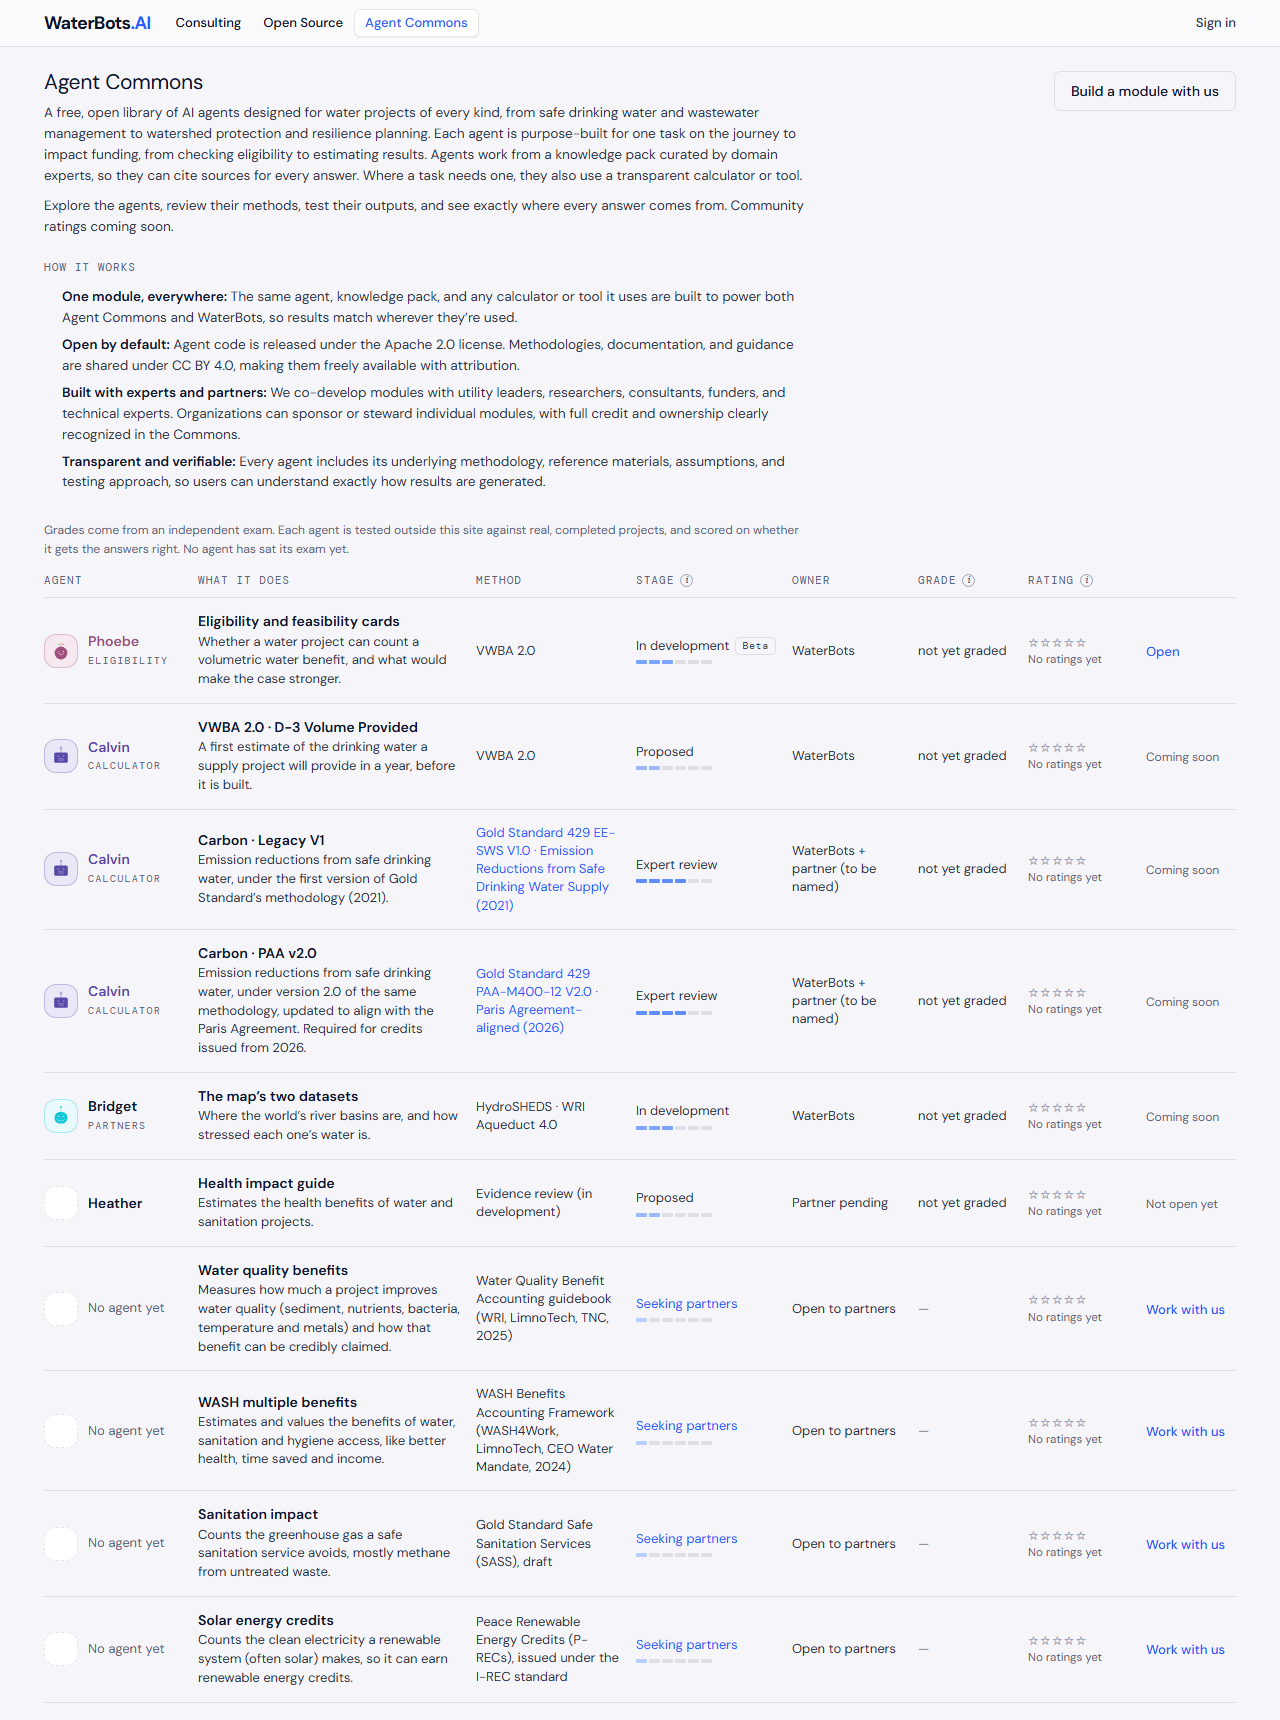
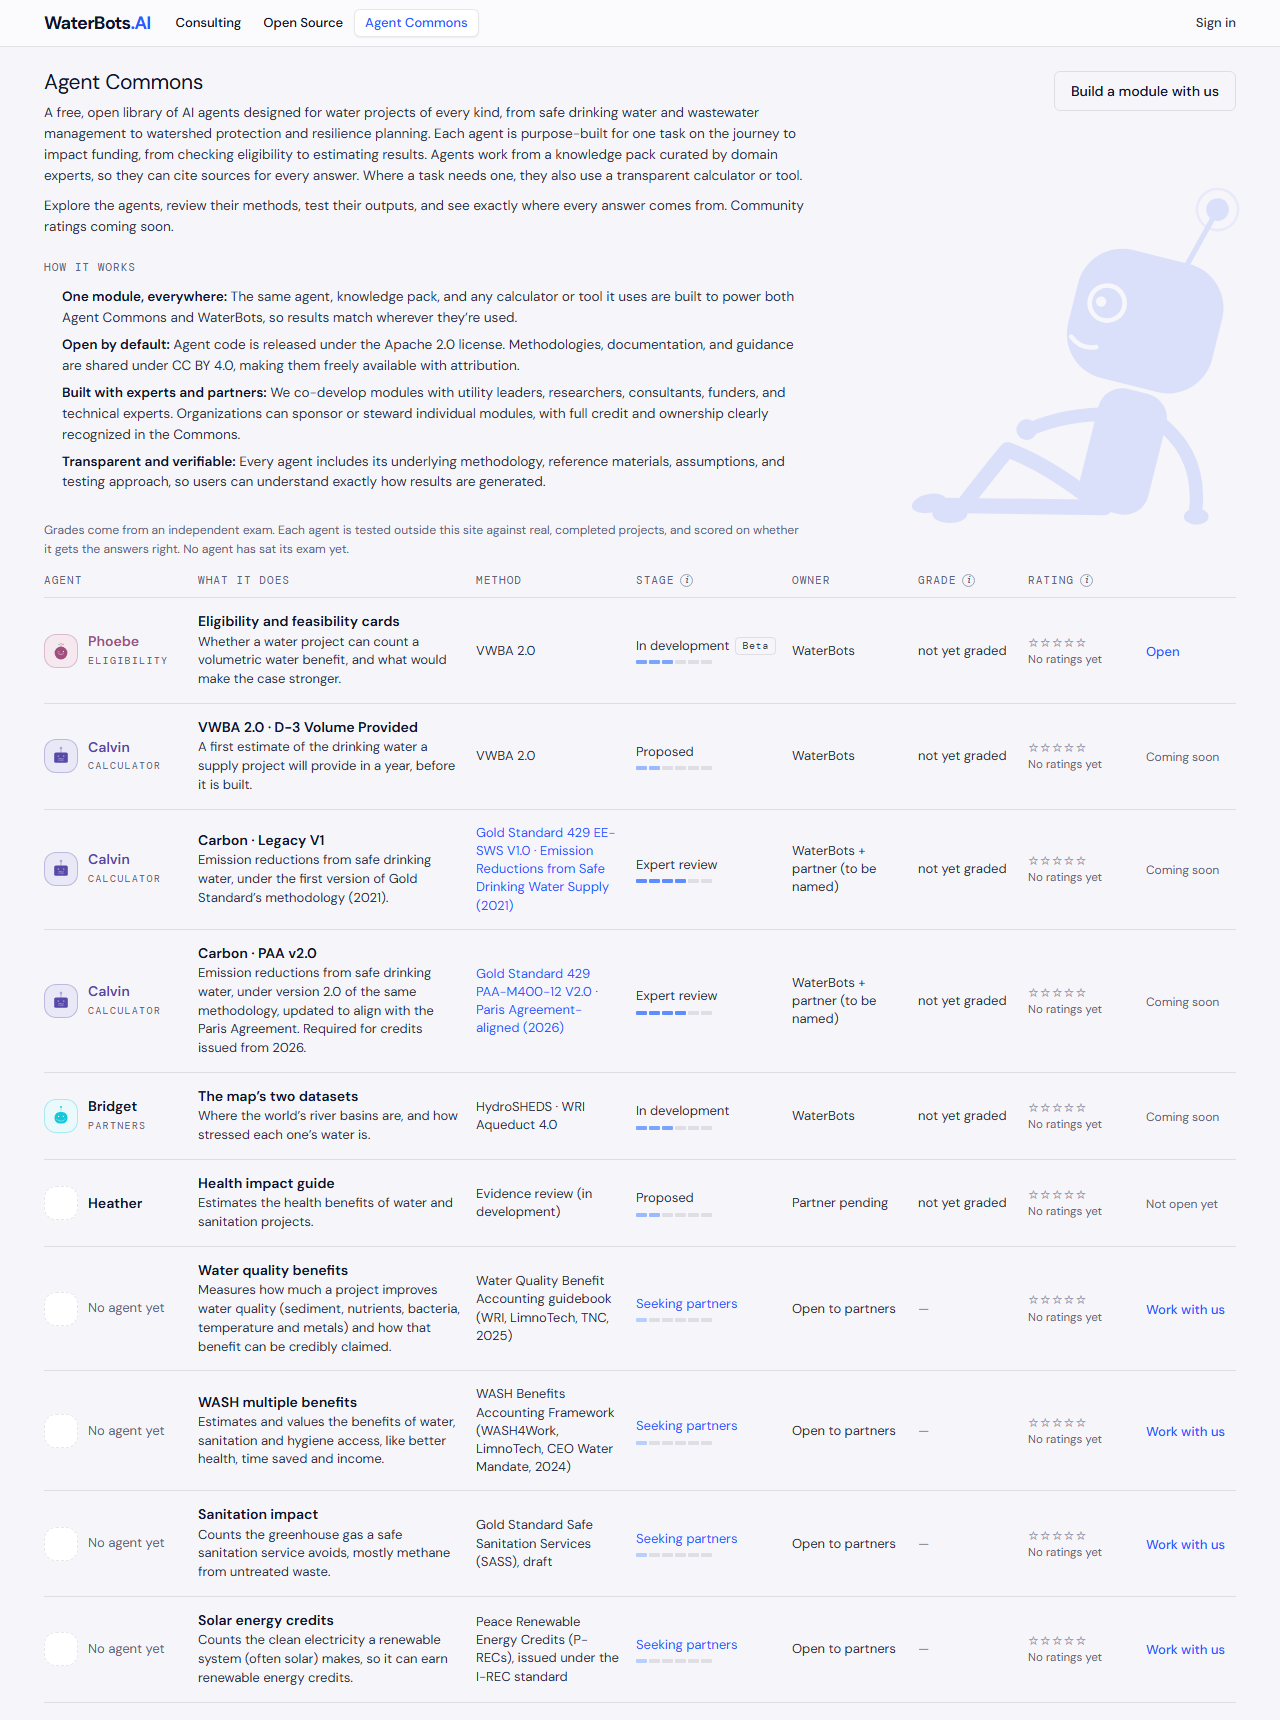
Built: the leaning Wellington beside the Commons opening
Amy's figure from the concept note, drawn as she sent it with its colours on
tokens (Tide through currentColor, the face's white through --card), at 0.13
opacity in the blank space right of the opening, under the button. It is
decoration only, and it hides below 1240px, where the space closes and it
would come within reach of the words, phones included.

Changed region(s): [[0.7188, 0.0924, 0.9688, 0.3081]]

diff --git a/src/components/WellingtonLeaning.tsx b/src/components/WellingtonLeaning.tsx
@@ -1,0 +1,55 @@
+/**
+ * Wellington, leaning — the figure from the maintainer's concept note, carried
+ * in by her hand on 28 Oct 2026 and drawn here as she sent it: his house form
+ * (rounded-square head, ringed eye and dot eye, gentle wave mouth, straight
+ * antenna with a haloed dot) leaning back at ease. Only the colours move to
+ * tokens: Tide through currentColor, and the face's white through --card.
+ *
+ * Decoration only: hidden from screen readers, never clickable, and faded, so
+ * it stays in the background.
+ */
+
+import type { CSSProperties } from 'react';
+
+const FACE = { stroke: 'var(--card)' } as const;
+
+export default function WellingtonLeaning({ className, style }: { className?: string; style?: CSSProperties }) {
+  return (
+    <svg
+      xmlns="http://www.w3.org/2000/svg"
+      viewBox="0 0 320 360"
+      width={330}
+      height={371}
+      className={className}
+      aria-hidden
+      focusable="false"
+      style={{ color: 'var(--tide)', pointerEvents: 'none', overflow: 'visible', ...style }}
+    >
+      <path
+        d="M 196 336 Q 150 300 112 286 Q 92 310 66 344"
+        stroke="currentColor"
+        strokeWidth={15}
+        fill="none"
+        strokeLinecap="round"
+        strokeLinejoin="round"
+      />
+      <ellipse cx={56} cy={348} rx={17} ry={9} fill="currentColor" />
+      <path d="M 206 342 L 48 340" stroke="currentColor" strokeWidth={15} fill="none" strokeLinecap="round" />
+      <ellipse cx={36} cy={338} rx={17} ry={9} fill="currentColor" transform="rotate(-12 36 338)" />
+      <g transform="rotate(14 210 345)">
+        <rect x={176} y={226} width={68} height={120} rx={24} fill="currentColor" />
+        <path d="M 196 252 Q 150 262 118 286" stroke="currentColor" strokeWidth={13} fill="none" strokeLinecap="round" />
+        <circle cx={114} cy={288} r={10} fill="currentColor" />
+        <line x1={226} y1={96} x2={240} y2={44} stroke="currentColor" strokeWidth={5} strokeLinecap="round" />
+        <circle cx={242} cy={36} r={11} fill="currentColor" />
+        <circle cx={242} cy={36} r={20} fill="none" stroke="currentColor" strokeWidth={2.4} opacity={0.5} />
+        <path d="M 232 248 Q 284 268 292 324" stroke="currentColor" strokeWidth={13} fill="none" strokeLinecap="round" />
+        <ellipse cx={294} cy={330} rx={12} ry={8} fill="currentColor" transform="rotate(-14 294 330)" />
+        <rect x={128} y={94} width={144} height={128} rx={44} fill="currentColor" />
+        <circle cx={160} cy={150} r={17} fill="none" strokeWidth={4.5} style={FACE} />
+        <circle cx={154} cy={150} r={5} style={{ fill: 'var(--card)' }} />
+        <path d="M 134 190 Q 146 200 160 194" strokeWidth={4.5} fill="none" strokeLinecap="round" style={FACE} />
+      </g>
+    </svg>
+  );
+}

diff --git a/src/components/CommonsShelf.tsx b/src/components/CommonsShelf.tsx
@@ -46,6 +46,7 @@ import {
   type ShelfCard,
 } from '../lib/commonsShelf';
 import { CONSULTING_URL, partnerMailto } from '../lib/site';
+import WellingtonLeaning from './WellingtonLeaning';
 
 /**
  * How It Works — the maintainer's four points, her words exactly, 28 Oct 2026.
@@ -95,7 +96,15 @@ export default function CommonsShelf({ onOpen }: { onOpen: (card: ShelfCard) => 
     <div style={{ flex: 1, minHeight: 0, overflowY: 'auto', scrollbarGutter: 'stable both-edges' }}>
       {/* Centred on the menu's own band — 1240px, 24px each side — so the page
           lines up with the menu above it; the maintainer's word of 28 Oct 2026. */}
-      <div style={{ padding: '22px 24px 32px', maxWidth: 1240, margin: '0 auto' }}>
+      <div style={{ padding: '22px 24px 32px', maxWidth: 1240, margin: '0 auto', position: 'relative' }}>
+        {/* WELLINGTON, LEANING — the maintainer's word of 28 Oct 2026: in the
+            blank space right of the opening, soft and faded as in her concept
+            note, under the button and above the list. Hidden where the page is
+            too narrow to keep him clear of the words (base.css). */}
+        <WellingtonLeaning
+          className="wb-commons-wellington"
+          style={{ position: 'absolute', top: 108, right: 38, opacity: 0.13 }}
+        />
         {/* THE HEADER: the title and opening on the left, the one button that
             asks a partner in on the right; it drops below on a narrow screen. */}
         <div

diff --git a/src/styles/base.css b/src/styles/base.css
@@ -1456,3 +1456,12 @@ button.wb-info {
     max-height: none;
   }
 }
+
+/* Wellington, leaning, beside the Commons opening (src/components/CommonsShelf.tsx).
+   He needs the space right of the opening's 760px column; below 1240px that
+   space closes, so he goes rather than sit behind the words. */
+@media (max-width: 1239px) {
+  .wb-commons-wellington {
+    display: none;
+  }
+}

diff --git a/BUILD_PLAN.md b/BUILD_PLAN.md
@@ -200,7 +200,8 @@ module that opens, /commons/phoebe first. A fourth word the same day: status bec
 partners to graduated, each a name and a bar in one Tide shade, pale to solid, with an (i) legend; "Beta" is
 a tag on Phoebe, open to try, not a stage; the count line goes; a new opening, grading note and carbon
 method links in her words; Phoebe's Tool tab reads "Eligibility quiz" on the Commons; and the menu marks the
-page you are on. The leaning Wellington figure waits on its file.
+page you are on. Her leaning Wellington, from the concept note, sits faded right of the opening, hidden below
+1240px.
 
 **S19 · The Workshop — make your own agent on the Commons.** After v1 · PARTNER. Not built; the proposal
 is next on her word. Her cost model, review before publishing and the two-shape save are in the write-up.
